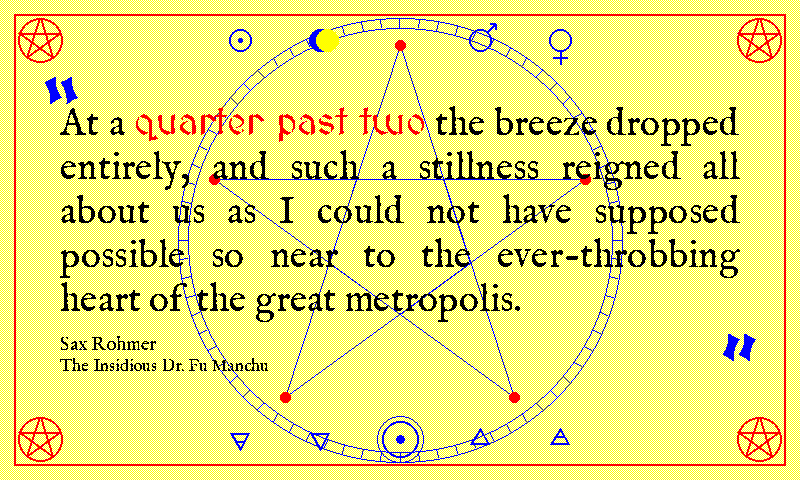
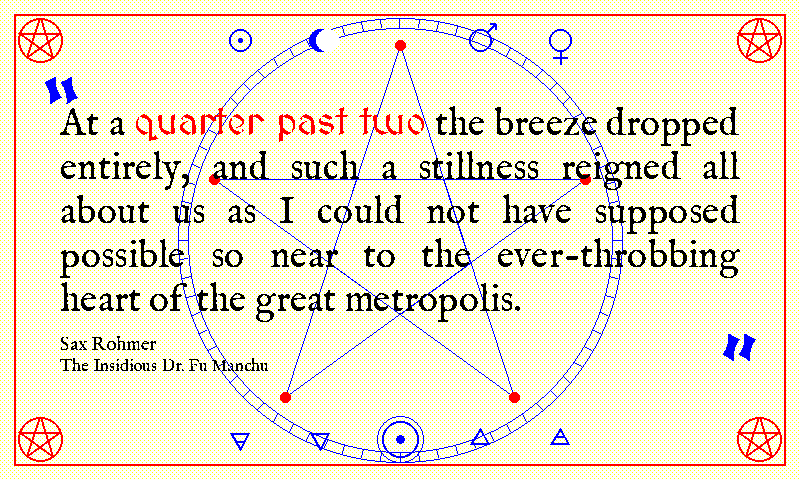
Alchemy theme: push parchment halftone to 87.5% white
50% checker still felt vivid-yellow at panel viewing distance. Bumps
the Bayer threshold from 8 to 2 so only 2 of every 16 page_bg pixels
remain yellow, the other 14 convert to white. The eye averages the
result to a pale ivory parchment with subtle yellow warmth — clearly
distinct from the original solid-yellow Spectra-6 panel colour.

Side fix: Luna's crescent-carving occluder was passing the theme's
yellow page_bg, which after this aggressive halftone left Luna
showing as a vivid yellow blob against the now-mostly-white ground.
Switch the occluder colour to pure white so it blends with the
halftoned ground and the crescent reads as a clean blue silhouette.

Docstring + README description + gallery preview updated.

https://claude.ai/code/session_01WoaVgce1A4chjNCRRQH1La

diff --git a/render_quote.py b/render_quote.py
@@ -3079,26 +3079,29 @@ def draw_alchemy_border(image: Image.Image, colors: dict) -> None:
     philosophical / inner side.
 
     Before any of the six decoration layers paint, a Layer-0
-    parchment halftone replaces half of the page_bg yellow pixels
-    with white via a 4×4 Bayer-dither pattern, so the rendered
-    ground reads as a softer aged-parchment cream rather than the
-    Spectra-6 panel's vivid pure yellow.
+    parchment halftone keeps only 2 of every 16 page_bg yellow
+    pixels and converts the other 14 to white via a 4×4 Bayer-dither
+    pattern, so the rendered ground reads as a pale ivory parchment
+    flecked with yellow rather than the Spectra-6 panel's vivid
+    pure yellow.
     """
     draw = ImageDraw.Draw(image)
     width, height = image.size
     rule_color = colors["accent"]               # red ritual boundary
     sigil_color = colors["accent"]              # red corner pentagrams
     hermetic_color = colors["ornament_dark"]    # blue planetary / elemental glyphs
-    page_bg = colors["page_bg"]                 # yellow — used by Luna occlusion
+    page_bg = colors["page_bg"]                 # yellow — used by the Layer-0 halftone
     stroke = 2
 
     # ------------------------------------------------------------------
-    # Layer 0: Parchment halftone. Replace half of the solid-yellow
-    # page_bg pixels with white in a 4×4 Bayer-dither pattern. At
+    # Layer 0: Parchment halftone. Keep only 2 of every 16
+    # page_bg yellow pixels and convert the other 14 to white in
+    # a 4×4 Bayer-dither pattern — each 4×4 tile retains a sparse
+    # diagonal pair of yellow flecks against a white ground. At
     # panel viewing distance the eye averages the resulting
-    # alternation of pure-yellow + pure-white pixels into a softer
-    # aged-parchment cream — exactly the way newsprint halftones a
-    # solid tone with only black ink. The pattern is applied at the
+    # alternation into a pale ivory parchment with subtle yellow
+    # warmth, the same way newsprint halftones a flat tone using
+    # only black ink. The pattern is applied at the
     # pixel level so it lives natively on the Spectra-6 palette
     # (every output pixel is still one of the six pure panel colours);
     # ``snap_image_to_palette`` is a no-op on these pixels.
@@ -3123,7 +3126,7 @@ def draw_alchemy_border(image: Image.Image, colors: dict) -> None:
         (15, 7, 13, 5),
     )
     halftone_white = SPECTRA6["white"]
-    halftone_threshold = 8    # 8 of 16 Bayer cells become white → 50% density
+    halftone_threshold = 2    # 14 of 16 Bayer cells become white → 87.5% density
     pixels = image.load()
     for y in range(height):
         row = _BAYER_4[y & 3]
@@ -3285,8 +3288,13 @@ def draw_alchemy_border(image: Image.Image, colors: dict) -> None:
     _draw_sol(
         draw, centre_x - 2 * flank_spacing, top_y, flank_radius, hermetic_color, line_width=stroke
     )
+    # Luna's crescent is carved out by an occlusion disc — pass
+    # white (not page_bg yellow) so the occluder blends with the
+    # halftoned ground above instead of showing up as a vivid
+    # yellow blob against the pale parchment.
     _draw_luna(
-        draw, centre_x - flank_spacing, top_y, flank_radius, hermetic_color, page_bg, line_width=stroke
+        draw, centre_x - flank_spacing, top_y, flank_radius, hermetic_color,
+        SPECTRA6["white"], line_width=stroke,
     )
     _draw_mars(
         draw, centre_x + flank_spacing, top_y, flank_radius, hermetic_color, line_width=stroke

diff --git a/README.md b/README.md
@@ -273,7 +273,7 @@ Seventeen themes ship built-in, all constrained to the Spectra 6 panel palette (
 | `marker`      | <img src="assets/previews/marker.png" width="240" alt="marker theme preview">           | white   | black     | blue    | Permanent Marker (hand-drawn)        | Fridge-doodle Sharpie hand — multi-colour dashed perimeter, four corner asterisks (red / blue / green / yellow), and yellow + green mid-edge marker dots; the only theme that lights up every Spectra 6 spot colour at once |
 | `saloon`      | <img src="assets/previews/saloon.png" width="240" alt="saloon theme preview">           | white (foxed) | black | red | Rye (wood-engraved slab)             | 19th-century Wild West wanted-poster — heavy block-printed body in Rye, layered background (sparse red foxing speckles across the page, ornamented top + bottom banner bands, double-rule frame, corner fleurons with red triangular wings, mid-edge red diamonds) |
 | `roman`       | <img src="assets/previews/roman.png" width="240" alt="roman theme preview">             | white (limestone) | black | red (rubrum) | Cinzel Decorative (Trajan-column inscriptional capitals) | Roman lapidary inscription — V-cut chiselled capitals on limestone, tabula ansata frame with trapezoidal handles, SPQR cartouche, red rubrum on the matched phrase, stone-grain speckles in the margin, mid-edge interpunct dots, laurel sprig at bottom |
-| `alchemy`     | <img src="assets/previews/alchemy.png" width="240" alt="alchemy theme preview">         | yellow (parchment, halftoned) | black | red (rubric) | IM Fell English (17th-century Oxford types) + MedievalSharp (calligraphic ritual hand) | Parchment grimoire — aged-yellow ground halftoned with a 4×4 Bayer-dither pattern at 50% white density so the eye averages the alternating pure-yellow + pure-white pixels into a softer aged-parchment cream (newsprint-style halftoning, the only way to fake a non-palette tone on the 6-colour Spectra panel), period-authentic Fell types for the body, red-rubricated matched phrase in MedievalSharp's sharp ritual-scribe hand. Full transmutation-circle ritual diagram: rectangular red ritual boundary + four red corner pentagrams in their protective circles, big inscribed blue transmutation circle with double-ring incantation band (72 tick marks at 5° intervals), inscribed pentagram + inner pentagon + five red anchor dots at the star's outer vertices, four flanking planetary glyphs (☉ Sol / ☽ Luna / ♂ Mars / ♀ Venus) along the top margin around the transmutation-circle's apex, and the four classical-element triangles (🜃 Earth / 🜄 Water / 🜂 Fire / 🜁 Air) along the bottom margin with the alchemical sun glyph (☉) centred between them — the body quote sits in the inscribed-pentagon "operative chamber" as the phrase being declared into the circle |
+| `alchemy`     | <img src="assets/previews/alchemy.png" width="240" alt="alchemy theme preview">         | yellow (parchment, halftoned) | black | red (rubric) | IM Fell English (17th-century Oxford types) + MedievalSharp (calligraphic ritual hand) | Parchment grimoire — yellow page ground halftoned with a 4×4 Bayer-dither pattern keeping only 2 of every 16 pixels yellow (the other 14 converted to white) so the eye averages the alternating pure-yellow + pure-white pixels into a pale ivory parchment with subtle yellow warmth (newsprint-style halftoning — the only way to fake a non-palette tone on the 6-colour Spectra panel), period-authentic Fell types for the body, red-rubricated matched phrase in MedievalSharp's sharp ritual-scribe hand. Full transmutation-circle ritual diagram: rectangular red ritual boundary + four red corner pentagrams in their protective circles, big inscribed blue transmutation circle with double-ring incantation band (72 tick marks at 5° intervals), inscribed pentagram + inner pentagon + five red anchor dots at the star's outer vertices, four flanking planetary glyphs (☉ Sol / ☽ Luna / ♂ Mars / ♀ Venus) along the top margin around the transmutation-circle's apex, and the four classical-element triangles (🜃 Earth / 🜄 Water / 🜂 Fire / 🜁 Air) along the bottom margin with the alchemical sun glyph (☉) centred between them — the body quote sits in the inscribed-pentagon "operative chamber" as the phrase being declared into the circle |
 
 Pass `--theme auto` to let the clock pick by wall-clock time. The defaults are `default` during the day (06:00–18:00) and `dark` at night (18:00–06:00) — the legacy binary contract. Broaden the rotation by setting `--auto-day-theme` and/or `--auto-night-theme` to any other registered theme, e.g.
 
